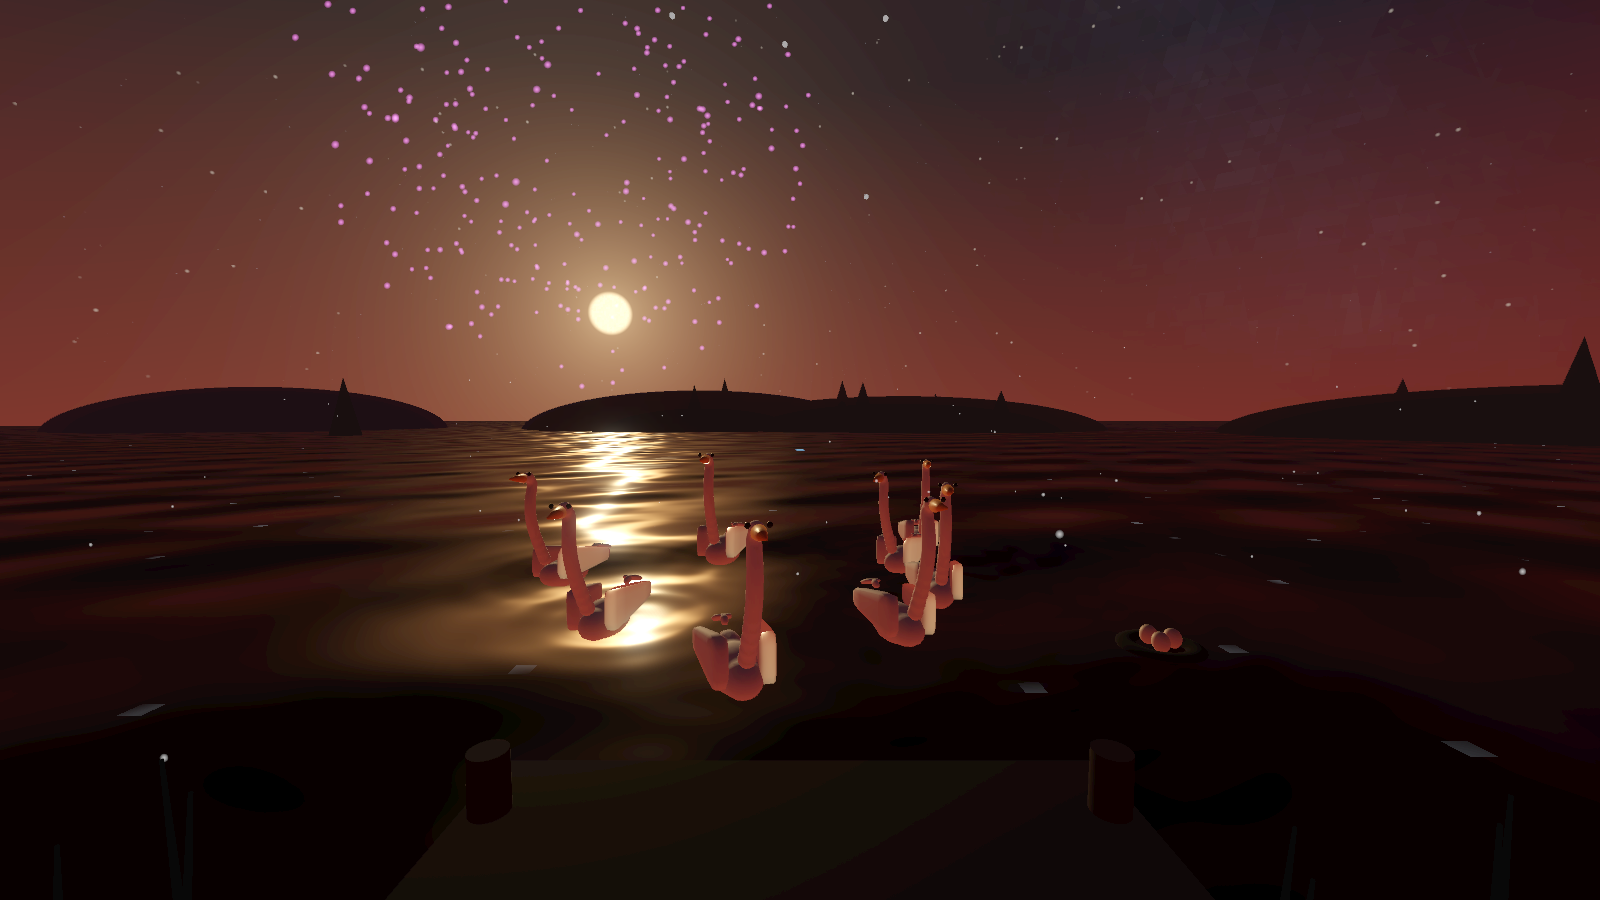
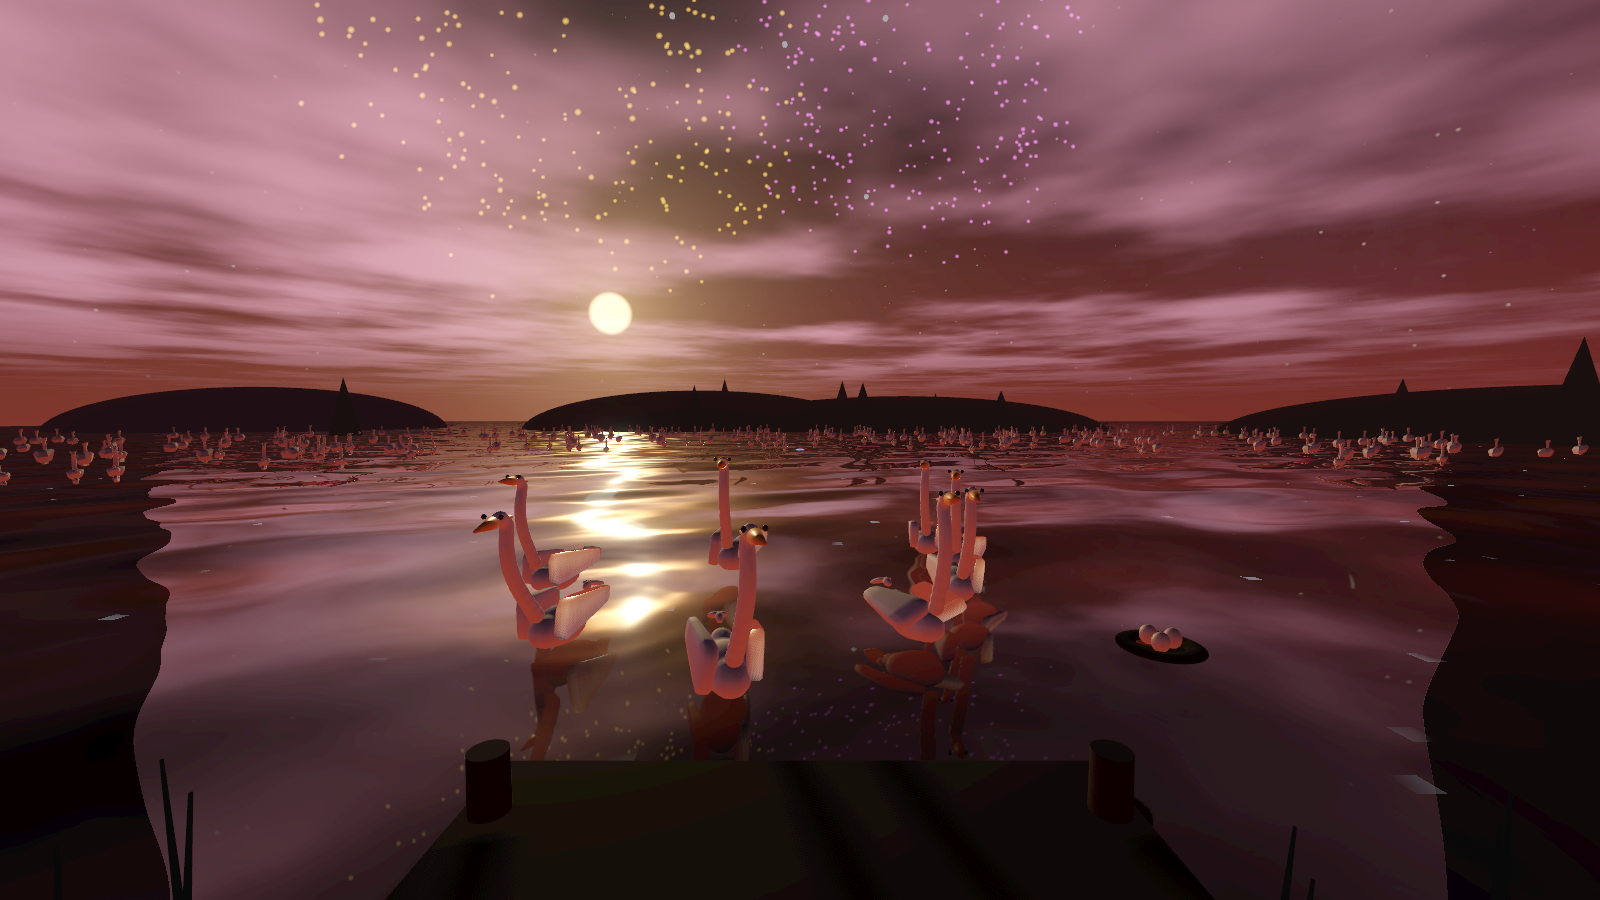
docs: custom 1200x630 social card, v4 hero capture, aurora/audience screenshot in README gallery

diff --git a/social.html b/social.html
@@ -1,0 +1,36 @@
+<!doctype html>
+<html lang="en">
+<head>
+<meta charset="utf-8">
+<title>Swan Lake XR — social card</title>
+<style>
+  /* 1200x630 OpenGraph card. Background is a real capture from the app. */
+  html, body { margin: 0; width: 1200px; height: 630px; overflow: hidden; background: #060810; }
+  body { position: relative; font-family: "Manrope", "Helvetica Neue", Arial, sans-serif; color: #fff; }
+  .bg { position: absolute; inset: 0; background: url("docs/dusk_fireworks.png") center 38% / cover no-repeat; }
+  .shade { position: absolute; inset: 0;
+    background:
+      linear-gradient(90deg, rgba(6,8,16,.94) 0%, rgba(6,8,16,.80) 36%, rgba(6,8,16,.25) 70%, rgba(6,8,16,0) 100%),
+      linear-gradient(0deg, rgba(6,8,16,.55) 0%, rgba(6,8,16,0) 38%); }
+  .copy { position: absolute; left: 72px; top: 0; bottom: 0; width: 640px;
+    display: flex; flex-direction: column; justify-content: center; }
+  .eyebrow { font-size: 21px; font-weight: 400; letter-spacing: .42em; text-transform: uppercase;
+    color: rgba(255,255,255,.72); margin-bottom: 26px; }
+  h1 { margin: 0; font-size: 104px; line-height: .98; font-weight: 300; letter-spacing: -.02em; }
+  .tag { margin-top: 30px; font-size: 29px; line-height: 1.38; font-weight: 300; color: rgba(255,255,255,.86); }
+  .chips { margin-top: 38px; display: flex; gap: 14px; }
+  .chips span { font-size: 18px; font-weight: 400; letter-spacing: .06em; padding: 9px 18px;
+    border: 1px solid rgba(255,255,255,.38); border-radius: 999px; color: rgba(255,255,255,.88); }
+</style>
+</head>
+<body>
+  <div class="bg"></div>
+  <div class="shade"></div>
+  <div class="copy">
+    <div class="eyebrow">Agile Lens</div>
+    <h1>Swan<br>Lake XR</h1>
+    <div class="tag">Conduct a moonlit lake of swans with a baton.<br>An OpenXR vignette for PICO's next headset.</div>
+    <div class="chips"><span>Godot 4.7</span><span>OpenXR</span><span>100% procedural</span></div>
+  </div>
+</body>
+</html>

diff --git a/README.md b/README.md
@@ -104,7 +104,7 @@ Desktop look-dev:
 |---|---|
 | ![Dusk fireworks](docs/dusk_fireworks.png) | ![Dawn](docs/dawn_low.png) |
 | ![Swan styles](docs/styles_grid.png) | ![Planar reflections](docs/night_planar.png) |
-| ![Corps de ballet — 2,000 swans](docs/finale_corps_2000.png) | |
+| ![Corps de ballet — 2,000 swans](docs/finale_corps_2000.png) | ![Aurora over the audience](docs/corps_chorus.png) |
 
 ## Credits
 
